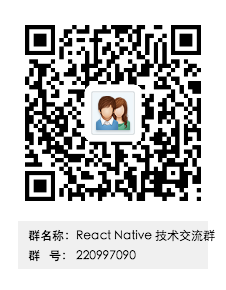
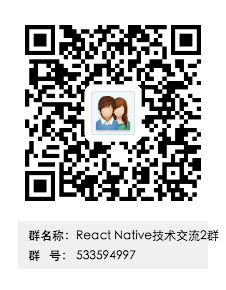
update QQ pic

Changed region(s): [[0.0929, 0.0621, 0.8982, 0.7138], [0.6814, 0.7759, 0.9602, 0.8379], [0.3407, 0.8379, 0.6195, 0.9]]

diff --git a/README.md b/README.md
@@ -17,7 +17,7 @@ React Native 使你能够使用基于 JavaScript 和 [React](http://wiki.jikexue
 
 ### React Native 交流群
 
-加入React Native QQ 交流群：220997090 和大家一起交流学习 React Native      
+React Native QQ 交流群已加满，请加交流2群：5335944997 和大家一起交流学习 React Native      
 
 ![ReactNativeQQ](images/ReactNative技术交流群群二维码.png)
 
